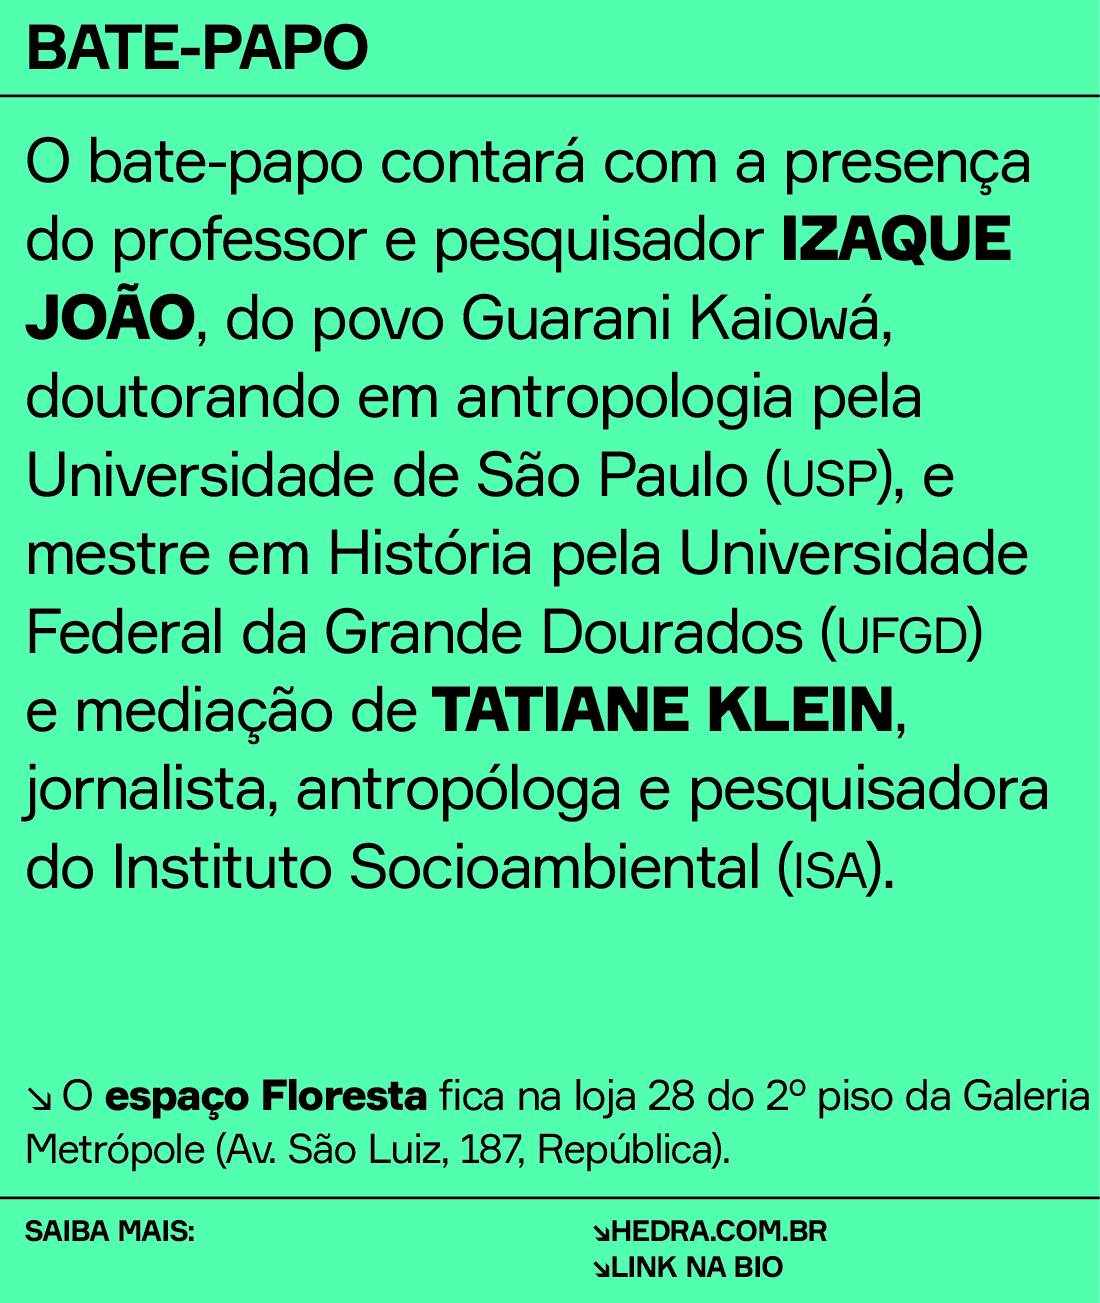
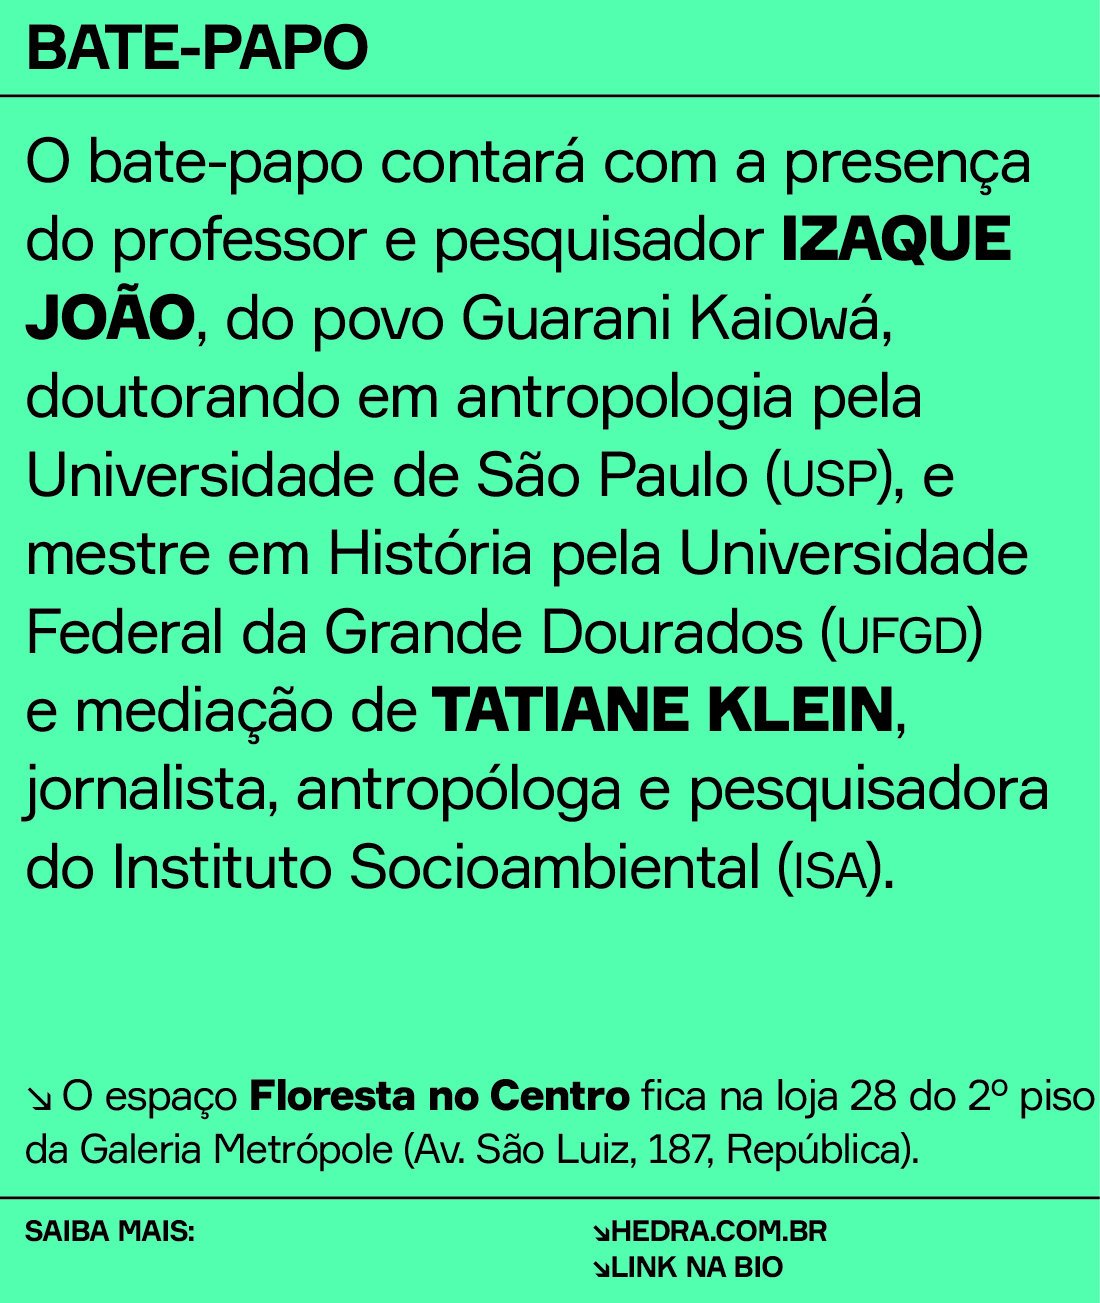
corrijindo post evento

Changed region(s): [[0.0, 0.8289, 1.0, 0.8903]]

diff --git a/campanhas/destaques-lote1/ATANASIO_ANIMAIS_EVENTOLANÇAMENTO.tex b/campanhas/destaques-lote1/ATANASIO_ANIMAIS_EVENTOLANÇAMENTO.tex
@@ -29,7 +29,7 @@
 \Mensagem{BATE-PAPO}
 
 \startMyCampaign
-{\bf CANTO DOS ANIMAIS PRIMORDIAIS -- {\it GUYRA GUAHU HA MYMBA KA’AGUY AYVU}}
+{\bf CANTOS DOS ANIMAIS PRIMORDIAIS -- {\it GUYRA GUAHU HA MYMBA KA’AGUY AYVU}}
 \stopMyCampaign
 
 \vfill
@@ -40,8 +40,8 @@
 % % Colocar sempre imagens quadradas
 % \scale[factor=fit]{\MyPortrait{pessoa}\quad\MyPortrait{pessoa2}\quad\MyPortrait{cat2}}
 
-{\scale[factor=6]{\Seta\,{\bf 24 DE OUTUBRO 19H} espaço Floresta no}
-\setupinterlinespace[line=1.7ex]\scale[factor=6]{Instituto Socioambiental (ISA).}}
+{\scale[factor=6]{\Seta\,{\bf 24 DE OUTUBRO 19H} espaço Floresta}
+\setupinterlinespace[line=1.7ex]\scale[factor=6]{no Centro}}
 
 
 \page %---------------------------------------------------------|
@@ -52,7 +52,7 @@
 
 O bate-papo contará com a presença do professor e pesquisador {\bf IZAQUE JOÃO}, do povo Guarani Kaiowá, doutorando em antropologia pela Universidade de São Paulo ({\cap USP}), e mestre em História pela Universidade Federal da Grande Dourados ({\cap UFGD}) e mediação de {\bf TATIANE KLEIN}, jornalista, antropóloga e pesquisadora do Instituto Socioambiental ({\cap ISA}). 
 
-{\vfill\scale[factor=5]{\Seta\,O {\bf espaço Floresta} fica na loja 28 do 2º piso da Galeria}\setupinterlinespace[line=1.7ex]\scale[factor=5]{Metrópole (Av. São Luiz, 187, República).}}
+{\vfill\scale[factor=5]{\Seta\,O espaço {\bf Floresta no Centro} fica na loja 28 do 2º piso}\setupinterlinespace[line=1.7ex]\scale[factor=5]{da Galeria Metrópole (Av. São Luiz, 187, República).}}
 
 \page %---------------------------------------------------------|
 

diff --git a/campanhas/destaques-lote1/ATANASIO_ANIMAIS_EVENTOLANÇAMENTO.md b/campanhas/destaques-lote1/ATANASIO_ANIMAIS_EVENTOLANÇAMENTO.md
@@ -1,6 +1,6 @@
 Bate-papo: «Canto dos animais primordiais -- Guyra guahu ha mymba ka’aguy ayvu.»
 
-24 de outubro àS 19h espaço Floresta no Instituto Socioambiental (ISA). 
+24 de outubro àS 19h espaço Floresta no Centro. 
 Loja 28 do 2º piso da Galeria Metrópole (Av. São Luiz, 187, República).
 
 O bate-papo contará com a presença do professor e pesquisador Izaque João, do povo Guarani Kaiowá, doutorando em antropologia pela Universidade de São Paulo (USP), e mestre em História pela Universidade Federal da Grande Dourados (UFGD) e mediação de  Tatiane Klein, jornalista, antropóloga e pesquisadora do Instituto Socioambiental (ISA). 

diff --git a/campanhas/destaques-lote1/ATANASIO_ANIMAIS_EVENTOLANÇAMENTO/ATANASIO_ANIMAIS_EVENTOLANÇAMENTO.md b/campanhas/destaques-lote1/ATANASIO_ANIMAIS_EVENTOLANÇAMENTO/ATANASIO_ANIMAIS_EVENTOLANÇAMENTO.md
@@ -1,6 +1,6 @@
 Bate-papo: «Canto dos animais primordiais -- Guyra guahu ha mymba ka’aguy ayvu.»
 
-24 de outubro àS 19h espaço Floresta no Instituto Socioambiental (ISA). 
+24 de outubro àS 19h espaço Floresta no Centro. 
 Loja 28 do 2º piso da Galeria Metrópole (Av. São Luiz, 187, República).
 
 O bate-papo contará com a presença do professor e pesquisador Izaque João, do povo Guarani Kaiowá, doutorando em antropologia pela Universidade de São Paulo (USP), e mestre em História pela Universidade Federal da Grande Dourados (UFGD) e mediação de  Tatiane Klein, jornalista, antropóloga e pesquisadora do Instituto Socioambiental (ISA). 
